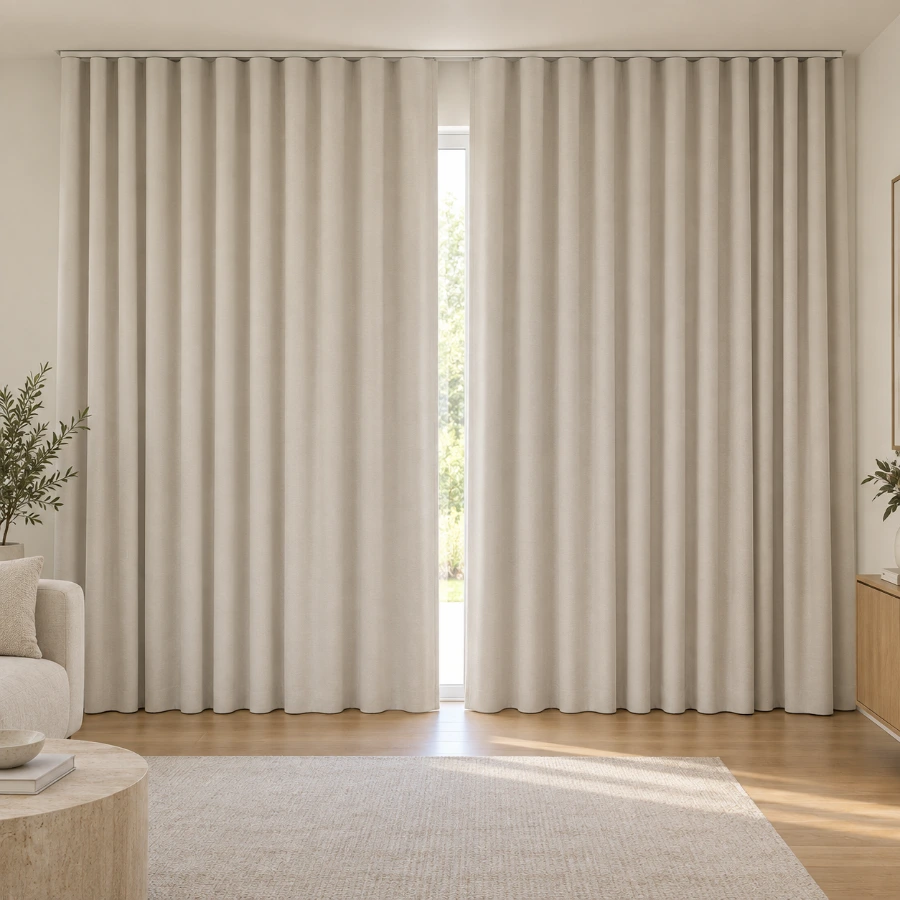
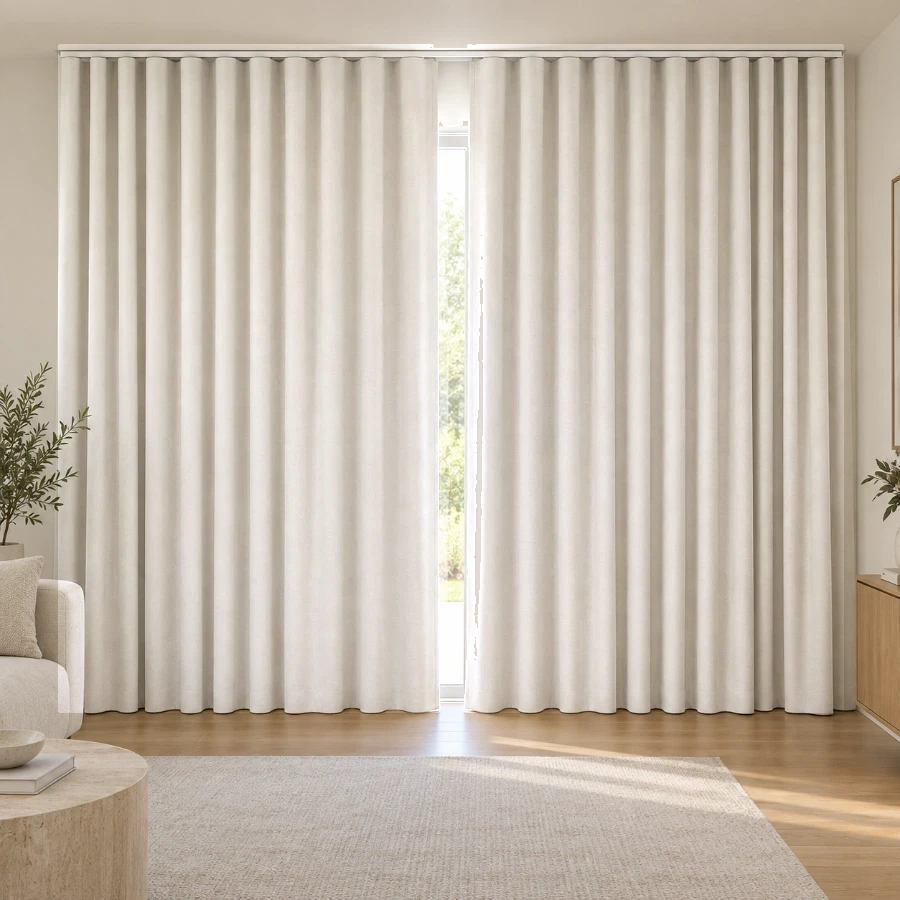
Put the materials back, and dye the curtains
TWO THINGS, AND THE FIRST IS A CORRECTION.

A FABRIC TYPE AND A MATERIAL ARE NOT THE SAME QUESTION, and reading "one
photograph means no fabric type" literally took the wrong one away. Blockout /
light filter / sunscreen is a fabric type: it is how much light comes through, it
needs a different photograph to show, and one photograph is fair evidence a
product does not offer it. Aluminium / Timber / Faux is a MATERIAL — and for
these four products it is the only thing standing in for a colour, because none
of them carries a colour card. Removing it left a venetian with nothing to
specify but its size.

  venetian-blinds       Slat      Aluminium / Timber / Faux timber
  plantation-shutters   Material  PVC / Timber / Aluminium
  roller-shutters       Slat      Aluminium / Insulated
  zip-guide-systems     Screen    Sunscreen mesh / Blockout PVC

All four back. The photography not yet distinguishing timber from aluminium is a
gap in the photography, not evidence the product comes one way — so the shot for
each is filed under the variant it actually shows, and the lookup falls back to
any shot of the product when a customer picks one that has not been photographed
yet. A venetian in aluminium is still a photograph of a venetian; showing it
beats falling back to a hero image of a different room.

THE CURTAINS DYE NOW, and getting there needed a second cutter and an admission.

The blind cutter keys off the halo of light leaking round a window frame: it is
[…]

diff --git a/src/data/fabricShots.ts b/src/data/fabricShots.ts
@@ -42,23 +42,29 @@ export interface FabricShot {
 export const FABRIC_SHOT_DIR = '/images/fabrics';
 
 export const FABRIC_SHOTS: FabricShot[] = [
-  { product: 'curtains', fabric: 'blockout', file: 'curtains-blockout.webp', mask: null, hardware: null, dye: 1 },
-  { product: 'curtains', fabric: 'sheer', file: 'curtains-sheer.webp', mask: null, hardware: null, dye: 0.38 },
-  { product: 'plantation-shutters', fabric: null, file: 'plantation-shutters.webp', mask: null, hardware: null, dye: 1 },
+  { product: 'curtains', fabric: 'blockout', file: 'curtains-blockout.webp', mask: 'curtains.mask.png', hardware: null, dye: 1 },
+  { product: 'curtains', fabric: 'sheer', file: 'curtains-sheer.webp', mask: 'curtains.mask.png', hardware: null, dye: 0.38 },
+  { product: 'folding-arm-awnings', fabric: 'acrylic', file: 'folding-arm-awnings-acrylic.webp', mask: null, hardware: null, dye: 1 },
+  { product: 'plantation-shutters', fabric: 'pvc', file: 'plantation-shutters-pvc.webp', mask: null, hardware: null, dye: 1 },
   { product: 'roller-blinds', fabric: 'blockout', file: 'roller-blinds-blockout.webp', mask: 'roller-blinds.mask.png', hardware: 'roller-blinds.hardware.png', dye: 1 },
   { product: 'roller-blinds', fabric: 'dual', file: 'roller-blinds-dual.webp', mask: 'roller-blinds.mask.png', hardware: 'roller-blinds.hardware.png', dye: 0.88 },
   { product: 'roller-blinds', fabric: 'lightfilter', file: 'roller-blinds-lightfilter.webp', mask: 'roller-blinds.mask.png', hardware: 'roller-blinds.hardware.png', dye: 0.7 },
   { product: 'roller-blinds', fabric: 'sunscreen', file: 'roller-blinds-sunscreen.webp', mask: 'roller-blinds.mask.png', hardware: 'roller-blinds.hardware.png', dye: 0.55 },
-  { product: 'roller-shutters', fabric: null, file: 'roller-shutters.webp', mask: null, hardware: null, dye: 1 },
-  { product: 'venetian-blinds', fabric: null, file: 'venetian-blinds.webp', mask: null, hardware: null, dye: 1 },
-  { product: 'zip-guide-systems', fabric: null, file: 'zip-guide-systems.webp', mask: null, hardware: null, dye: 1 },
+  { product: 'roller-shutters', fabric: 'aluminium', file: 'roller-shutters-aluminium.webp', mask: null, hardware: null, dye: 1 },
+  { product: 'venetian-blinds', fabric: 'aluminium', file: 'venetian-blinds-aluminium.webp', mask: null, hardware: null, dye: 1 },
+  { product: 'zip-guide-systems', fabric: 'mesh', file: 'zip-guide-systems-mesh.webp', mask: null, hardware: null, dye: 1 },
 ];
 
 /** The shot for a configuration, or undefined where none has been photographed
  * yet -- the card falls back to the product's own hero image.
  *
- * Falls back to the product's single photograph where it has one, so a product
- * with no fabric type still gets its picture. */
+ * THREE STEPS DOWN. The exact fabric first. Then the product's fabric-less
+ * photograph, for a product that has no fabric type. Then ANY shot of that
+ * product -- because a venetian photographed in aluminium is still a photograph
+ * of a venetian, and showing it when someone picks Timber beats falling back to
+ * a hero image of a different room. What it costs is that the picture does not
+ * follow that one choice; what it buys is that the card keeps its product. */
 export const fabricShot = (product: string, fabric: string | undefined): FabricShot | undefined =>
   FABRIC_SHOTS.find(s => s.product === product && s.fabric === fabric)
-  ?? FABRIC_SHOTS.find(s => s.product === product && s.fabric === null);
+  ?? FABRIC_SHOTS.find(s => s.product === product && s.fabric === null)
+  ?? FABRIC_SHOTS.find(s => s.product === product);

diff --git a/src/data/configOptions.ts b/src/data/configOptions.ts
@@ -182,13 +182,20 @@ const PRODUCT_OPTIONS: Record<string, ProductOptions> = {
     size: true,
     operation: true,
   },
-  // ONE PHOTOGRAPH, SO NO SLAT QUESTION. It offered Aluminium / Timber / Faux
-  // and the product does not come that way — see the note on variants.
+  // THE SLAT IS THE COLOUR HERE. A venetian carries no colour card, so this
+  // row is the only thing a customer specifies about how it looks — which is
+  // why it survives the one-photograph rule that took the fabric types off the
+  // shutters. The photography not yet distinguishing timber from aluminium is a
+  // gap in the photography, not evidence the product comes one way.
   'venetian-blinds': {
+    variantLabel: 'Slat',
+    variants: [v('aluminium', 'Aluminium'), v('timber', 'Timber'), v('faux', 'Faux timber')],
     size: true,
     operation: true,
   },
   'plantation-shutters': {
+    variantLabel: 'Material',
+    variants: [v('pvc', 'PVC'), v('timber', 'Timber'), v('aluminium', 'Aluminium')],
     size: true,
   },
   'vertical-blinds': {
@@ -220,10 +227,14 @@ const PRODUCT_OPTIONS: Record<string, ProductOptions> = {
     operation: true,
   },
   'zip-guide-systems': {
+    variantLabel: 'Screen',
+    variants: [v('mesh', 'Sunscreen mesh'), v('blockout', 'Blockout PVC')],
     size: true,
     operation: true,
   },
   'roller-shutters': {
+    variantLabel: 'Slat',
+    variants: [v('aluminium', 'Aluminium'), v('insulated', 'Insulated')],
     size: true,
     operation: true,
   },
